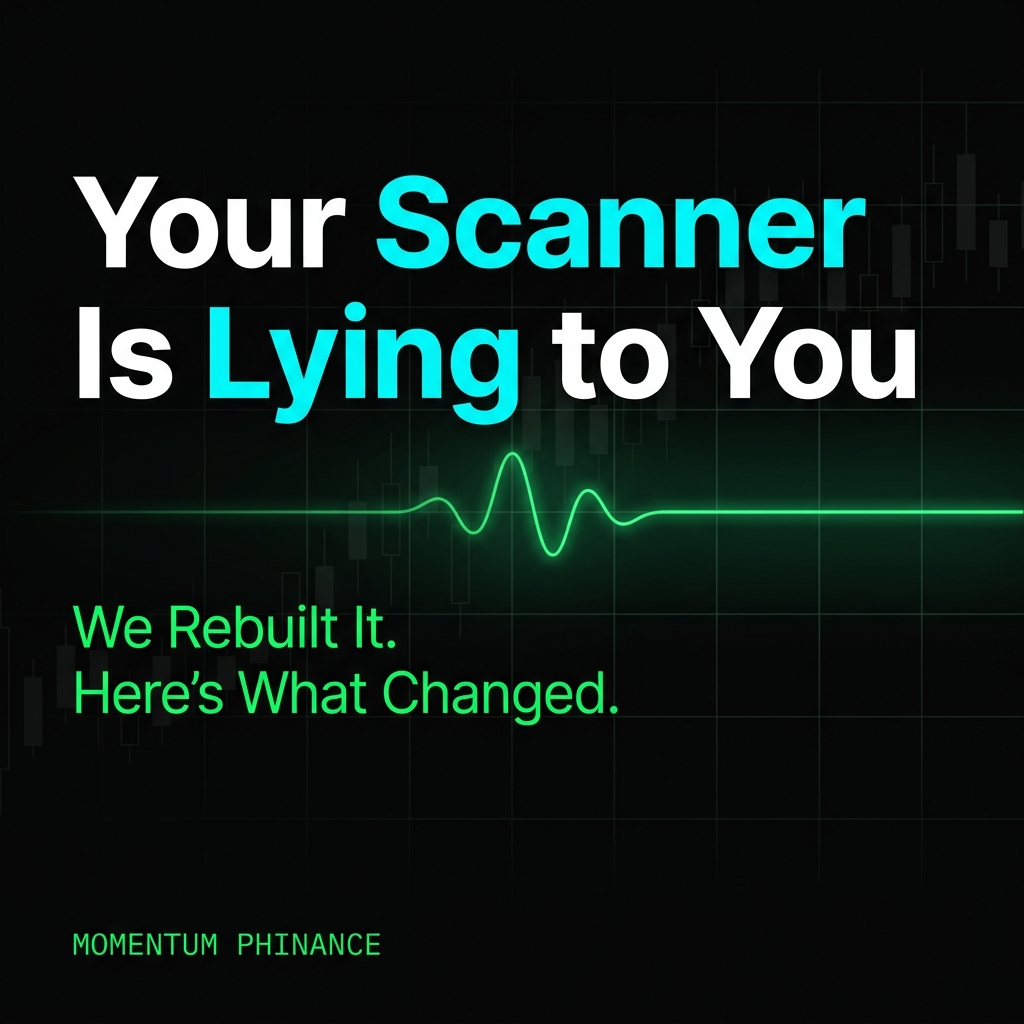
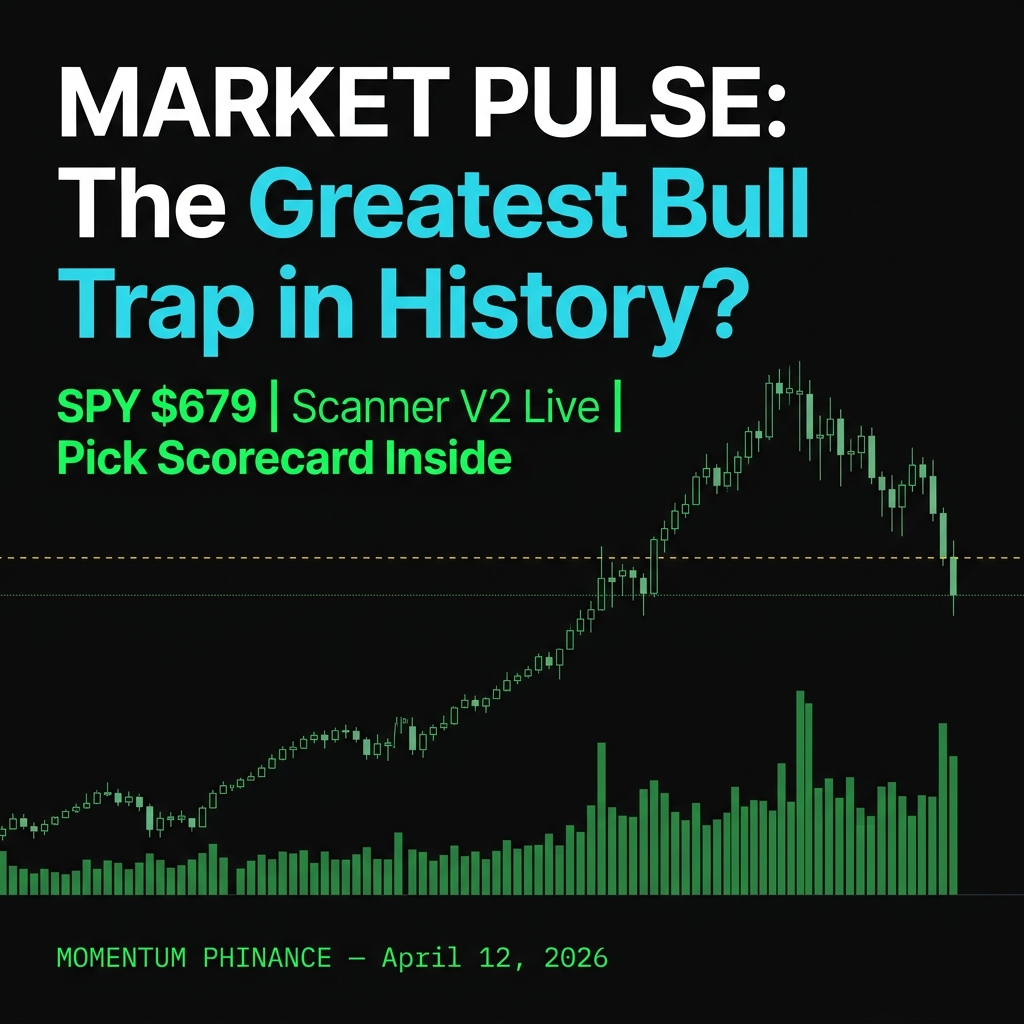
📝 Market Pulse: Bull trap thesis, Q1 pick scorecard, scanner V2 + IV smoother

diff --git a/docs/articles/letf-scanner-v2/README.md b/docs/articles/letf-scanner-v2/README.md
@@ -1,117 +1,137 @@
-# Your Scanner Is Lying to You
+# Market Pulse: The Greatest Bull Trap in History?
 
 *April 12, 2026*
 
-![Your Scanner Is Lying to You](hero_banner.png)
+![Market Pulse: The Greatest Bull Trap in History?](hero_banner.png)
 
 ---
 
-**Most stock screeners are just vibes with a filter on top.**
+**SPY is at $679 and I'm not sleeping well.**
 
-RSI below 30? Buy. ADX above 25? "Strong trend." That's the level of analysis you get from a $0 Finviz screen. And honestly, it's the level of analysis I was running until about a week ago when Sam looked at the output and said, "Michael, this is basically a coin flip with extra steps."
+Pull up the weekly chart. Look at it. Really look at it. Now pull up the monthly. That's not a rally. That's a rocket ship with no landing gear. SPY has gone nearly vertical on the monthly timeframe, the kind of parabolic move you see right before someone gets hurt.
 
-She wasn't wrong.
+The last two times the monthly chart looked like this were December 2021 and January 2018. Both preceded drawdowns of 15% or more. I'm not saying we're there. I'm saying the setup is familiar, and pretending it isn't is the kind of denial that costs people money.
 
-Here's the problem: static thresholds are dumb. An ADX of 24 sitting still is completely different from an ADX of 24 that was 16 five days ago. One is a nothing burger. The other is a coiled spring about to snap your face off. And every scanner I've seen, including the one I built, treated them exactly the same.
-
-So we burned it down and rebuilt it.
+Here's what tipped me off. I sent Sam a screenshot of three SPY charts this morning: weekly, monthly, and the TradingView overview. She said: "Michael, that's either the greatest bull trap in history or the start of another leg up. Either way, you should probably write about it." So here we are.
 
 ---
 
-## The Market Right Now
+## What Happened This Week
 
-Before I show you what changed, let me show you what the scanner found today.
+The tariff saga continued doing what it does best: making everything feel unstable while the indices somehow grind higher. The market spent Monday through Wednesday pretending the macro environment doesn't exist, ripped to new highs, then started leaking on Thursday and Friday.
 
-![Market Regime, April 12, 2026](market_regime.png)
+That $679 SPY close looks strong until you notice the volume. Volume has been declining on the rally. Price going up on decreasing volume is a textbook divergence. It means fewer and fewer participants are driving the move higher. The people still buying are getting more aggressive. The people who already own shares are quietly not adding. That's the quiet before the quiet before the storm.
 
-SPY is sitting at **$679**. The ADX on SPY is **37.5**, which is a strong trend day. The machine says it's a trade day. Good. Let's see what it found.
+**SPY ADX: 37.5.** Strong trend. The scanner says it's a trade day. But look underneath the hood.
 
-Out of 71 leveraged ETF underlyings scanned: **zero A-grade setups. Four B-grades. Nine C-grades. And 58 D-grades.**
+![The Bull Trap Thesis](bull_trap.png)
 
-Read that again. **82% of the universe scored a D.** That's not a market where you swing at everything. That's a market where you wait for the pitch. The scanner's job isn't to find you trades. It's to keep you out of bad ones. When 82% of stocks don't qualify, the scanner is doing its damn job.
+I ran the scanner across 71 leveraged ETF underlyings today. **82% scored a D.** Four out of 71 earned a B. Zero A-grades. When the index is screaming higher but 82% of individual stocks can't produce a setup, who is actually pushing this thing up? A handful of mega-caps dragging the index while everything else treads water.
+
+That's not a healthy rally. That's a narrow rally wearing a healthy rally's clothes.
 
 ---
 
-## What We Changed (And Why It Matters)
+## The Pick Scorecard: Receipts
 
-The old scanner used hard cutoffs. RSI below 35? Check. ADX above 20? Check. Volume above average? Check. Three green lights and you're in. 
+I talk a lot. Sam talks even more. But neither of us means anything without the receipts. Here are the picks from Q1, graded against what actually happened.
 
-The problem is obvious when you say it out loud: a stock with RSI 34.9, ADX 19.8, and volume at 0.99x its average scores **zero** on all three. Move each number by 0.2 and suddenly it's a "buy." That's not analysis. That's noise.
+![Ghost Alpha Pick Scorecard](pick_scorecard.png)
 
-**V2 uses a 17-point scoring system.** Every signal contributes proportionally. No more binary gates. The more criteria you hit, and the harder you hit them, the higher your score. Think of it like a credit score for momentum setups.
+**AVGO: Called at $330 on March 6. Currently $371. Up 12.4%.** ✓
+
+This is the one I'm proudest of. When we published the AVGO deep dive, the EMA stack was *fully bearish*. Every short-term average was below every long-term average. RSI was flat at 54. Most scanners would have ignored it or flagged it as "neutral." But the fundamentals were screaming: 188% earnings growth. Forward P/E of 19.2 on a company growing revenue 16.4%. All 44 analysts had it as a Strong Buy with a median target of $472. The EMA stack was bearish because the stock had just corrected from $414. We caught the bottom.
+
+**TER: Called at $306 on March 3.** The semiconductor equipment monster.
+
+This was a full bullish EMA stack with an ADX of 64. Sixty-four. The highest ADX reading in my entire dossier database at the time. Revenue growth at 44%. This wasn't a speculative play. It was a freight train. The ADX told you the trend was so strong that stepping in front of it was financial suicide.
+
+**HOOD: Called at $76 on March 4. Currently $69. Down 9.0%.** 🔍
+
+Not going to lie, this one stings a little. But the scanner currently has HOOD at C-grade with an ADX of 30 and a coiling ATR squeeze ratio of 0.79. It's compressing. The thesis isn't dead, it's digesting. Sometimes the best trades require patience. Sometimes they require admitting you were early. I'm watching it, not mourning it.
+
+**DDD (The Wheel): Stock down $43. Premium collected: $51. Net: +$8.32.** ✓
+
+This is where the strategy proves itself. The stock is underwater. On paper, you're losing. But the options premium from selling covered calls has more than covered the drawdown. The wheel turns. Time plus premium plus patience equals green. This is what your subscription dollars fund in the Tastytrade account.
+
+**BITF: Cut at $1.91. Loss: $109.** ✗
+
+BITF was a relapse. I saw the momentum breaking and I stayed in the bar too long. In recovery, they tell you the relapse teaches you more than the streak ever could. BITF taught me that when your thesis breaks, you walk out the door. You don't finish the drink. The $109 loss was tuition.
+
+**RR (The Wheel): Stock down $59. Premium collected: $93. Net: +$33.66.** ✓
+
+Same story as DDD. Stock is underwater. Premiums are printing. Net positive. The wheel doesn't care about your feelings. It cares about time decay. And time decay is undefeated.
+
+---
+
+## The Scanner Got an Upgrade (And It Found Things)
+
+OK, the R&D section. This is the part where I tell you what we built this week and why it matters for your trading.
+
+**V1 of the LETF scanner was basically a coin flip with extra steps.** Static thresholds. RSI below 35? Green light. ADX above 20? Green light. Three green lights and you're "in." The problem is obvious: a stock with RSI 34.9 and ADX 19.8 scores zero on everything, but an RSI of 35.1 and ADX 20.1 is suddenly a "buy." That's not analysis. That's noise with a GUI.
+
+**V2 uses a 17-point scoring system.** Every signal contributes proportionally. No binary gates. The more conditions you hit, and the harder you hit them, the higher your score.
 
 ![V2 Scoring Engine](scoring_system.png)
 
-Six categories. Seventeen possible points. Here's why each one matters:
+The two biggest additions:
 
-**ADX Strength (0-4 pts):** This is the trend filter. ADX above 15 says "something is happening." Above 30 says "get on or get out of the way." Four tiers instead of a single cutoff.
+**ADX Delta (0-3 pts).** This is the game changer. We stopped looking at ADX as a snapshot and started looking at it as a velocity. A 5-bar lookback compares today's ADX to where it was a week ago. An ADX of 24 that was 16 last week has a delta of +8. That's a trend *accelerating*. The rubber band is pulled back. The old scanner would have ignored an ADX of 24. The new scanner sees the kinetic energy building and rewards it.
 
-**ADX Delta (0-3 pts):** This is the new one. The one that changes everything. We look at the ADX five bars ago versus today. If the delta is +7 or higher, the trend is accelerating rapidly. The rubber band is getting pulled back. This is where consolidation breakouts live. An ADX of 24 that was 16 last week is a completely different animal than an ADX of 24 that's been 24 for a month.
+**ATR Squeeze (0-3 pts).** Volatility compression. When the short-term ATR falls below 80% of the long-term ATR, the stock is coiling. Below 70%, it's a tight spring. When the ratio crosses back above 0.75 from below, that's the "fire" signal. Springs snap.
 
-**ATR Squeeze (0-3 pts):** Volatility compression. When the short-term ATR drops below 80% of the long-term ATR, volatility is coiling up. Below 70%, it's getting tight. And when it crosses back above 0.75 from below, that's the "fire" signal. Springs snap.
+Here's what the new scanner found today:
 
-**Relative Volume (0-3 pts):** Volume doesn't lie. When a stock is trading at 2x its 20-day average, somebody knows something. Or they think they do. Either way, the move is being funded.
+![LETF Scanner V2 Dashboard](scanner_dashboard.png)
 
-**RSI Oversold (0-3 pts):** Classic, but graduated. RSI 39 gets 1 point. RSI 29 gets 3. The deeper the oversold reading, the more likely the bounce. But it's never enough on its own.
+**NOW (ServiceNow):** Dropped 7.6% on Friday. RSI cratered to 22.4. Volume surged to 3.24x its 20-day average. The ADX delta is +7.5, meaning trend strength nearly doubled in five sessions. This is what the old scanner would have missed: the acceleration. It's not just oversold. It's oversold *and* gaining momentum. Score: 13/17, Grade B.
 
-**Below VWAP (0-1 pt):** Simple. Is the stock below its volume-weighted average price? If yes, you're buying the dip, not chasing the rip. One point, but it matters.
+**AXON:** The highest ADX delta in the batch at +9.6. Trend strengthening faster than anything else in the universe. RSI at 25.7. Every scoring category lit up. Score: 13/17, Grade B.
 
-**A = 14+. B = 10+. C = 6+. D = below 6.**
+**SNOW (Snowflake):** Destroyed on Friday, down 8.4% with volume at nearly 4x normal. RSI at 21.2. That's panic selling on real volume. The ADX delta of +5.8 says a new trend direction is picking up steam, regardless of whether you agree with it. Score: 12/17, Grade B.
 
----
-
-## Today's Grade-B Picks
-
-Four stocks earned a B today. Here they are, with the actual data from the scanner.
-
-![LETF Scanner V2 Top Picks](top_picks.png)
-
-**NOW → NOWL (Score: 13/17)**
-ServiceNow dropped 7.6% today. RSI cratered to 22.4. Volume surged to 3.24x normal. The ADX delta is +7.5, meaning trend strength nearly doubled in five sessions. This is what the old scanner would have missed: the acceleration. It's not just oversold. It's oversold *and* accelerating into a new move. That's the whole thesis.
-
-**AXON → AXUP (Score: 13/17)**
-The highest ADX delta in the batch at +9.6. Axon's trend is strengthening faster than anything else in the universe today. RSI at 25.7, volume at 1.67x. Every single scoring category lit up. This is the kind of setup that makes the 17-point system worth building.
-
-**SNOW → SNOU (Score: 12/17)**
-Snowflake got destroyed, down 8.4% with volume at almost 4x normal. RSI at 21.2. That's panic selling on real volume. The ADX delta of +5.8 says the trend is picking up steam. Whether it bounces Monday or grinds lower, the conditions are aligned for a leveraged play.
-
-**SMR → SMUP (Score: 10/17)**
-This one is interesting because it scores differently from the others. The ADX is the highest in the group at 43.9 (strong sustained trend), and it has the lowest ATR squeeze ratio at 0.61. That means volatility is compressed to 61% of its normal range. The spring is coiled. When it snaps, the 2x leverage amplifies the move. This is the "quiet before the breakout" setup.
+**SMR:** The interesting one. ADX is the highest in the group at 43.9 (sustained strong trend), and the ATR squeeze ratio is 0.61 (tightly coiled). Volatility has compressed to 61% of its normal range. This is the "quiet before the breakout" setup that gets amplified by 2x leverage. Score: 10/17, Grade B.
 
 ---
 
-## The Options Upgrade: Stop Trusting Raw IV
+## The Options Pipeline Got Smarter Too
 
-Here's the other thing we fixed this week, and this one is for the options nerds.
+One more R&D update, then I'll let you go.
 
-If you've ever pulled an implied volatility number off your broker and thought "that looks weird," you're right. It is weird. Raw ATM IV is a single data point from a single strike. It's noisy, it's affected by wide bid-ask spreads, and on illiquid names it's basically useless.
+We rebuilt how the options scanner handles implied volatility. If you've ever pulled a raw IV number off your broker and thought "that seems off," it is. Raw ATM IV is one data point from one strike. It's noisy, it's affected by wide bid-ask spreads, and on illiquid names it's basically random.
 
 ![IV Smoother: Spline vs Raw](iv_smoother.png)
 
-We built a cubic spline smoother. Instead of grabbing one IV number from the ATM strike, we fit a curve through the entire options chain. Each strike gets weighted by the square root of its volume times open interest. Liquid, near-the-money strikes dominate the curve. Illiquid deep OTM garbage gets faded out.
+We built a cubic spline smoother. Instead of one IV number from one strike, we fit a curve through the entire options chain, weighted by the square root of volume times open interest. Liquid, near-the-money strikes dominate. Illiquid deep OTM garbage fades out.
 
-The result: a smoothed ATM IV that actually reflects where the market is pricing risk, not where one market maker left a wide quote on a $0.05 option nobody trades.
+This feeds directly into the gamma pin screener, where the OI sandwich analysis depends on accurate put-vs-call IV to detect institutional hedging. Noisy IV was making the skew signals unreliable. Now they're not.
 
-We also extract the IV skew from the fitted curve. Put IV centroid minus call IV centroid. When puts are priced significantly above calls (skew > 5 vol points), that's institutional hedging. When calls are priced above puts (skew < -3), that's bullish flow. The smoother turned our gamma pin screener from "interesting" to "useful."
-
----
-
-## Here's the Truth
-
-I built these tools because I couldn't find them anywhere else. Not for free, not for $200/month, not anywhere. Every scanner I tried used the same static thresholds that treat all ADX 24s as equal and all RSI 30s as identical. They're not.
-
-The V2 scoring system isn't perfect. Zero A-grade setups today tells me either the model is conservative or the market is genuinely not offering clean entries. Probably both. But I'd rather have a scanner that says "nothing looks great" than one that lights up 20 "buy" signals that all crater by Wednesday.
-
-**When 82% of the universe flunks the test, the four that pass deserve your attention.**
+This is the kind of upgrade nobody sees but everybody benefits from. The plumbing matters.
 
 ---
 
-*Not subscribed yet? This is what you get: the actual tools, the actual data, and the actual thought process behind every trade. No hypotheticals. No "past performance." Live scanners running on live data with a real human showing you the receipts.*
+## So What Do You Do With All This?
+
+Here's how I'm thinking about it.
+
+SPY at $679 on declining volume with a parabolic monthly chart and 82% of individual stocks failing the scanner. That's not a "back up the truck" setup. That's a "be selective and keep your stops tight" setup.
+
+The four B-grade picks are interesting because they're all showing the same pattern: strong trend acceleration (ADX delta positive) combined with oversold RSI and elevated volume. That's institutional money repositioning, not retail panic. When the big money is getting aggressive on specific names while the broad market thins out, those specific names are where the setups live.
+
+The Q1 pick scorecard is mostly green. AVGO (+12.4%) proved that the dossier engine catches bottoms when the fundamentals diverge from the technicals. The wheel strategy on DDD and RR is printing premium. BITF was a $109 lesson in cutting losses. HOOD is coiling.
+
+Am I calling a top? No. I'm saying the data looks the way it looks. Volume is thinning. Breadth is narrowing. The scanner can't find A-grade setups anywhere. Either the model is too conservative or the market is genuinely not offering clean entries. I'd rather have a scanner that says "nothing looks great" on 82% of the universe than one that lights up 20 buy signals that crater by Wednesday.
+
+**When most of the universe flunks, the ones that pass deserve your attention.**
+
+---
+
+*This is what the subscription gets you. The actual tools, the actual data, the actual pick follow-ups. Not hypotheticals. Not paper trades. AVGO at $330, DDD wheeling premium, BITF eaten in public. Every receipt on the table.*
 
 *[Subscribe to Momentum Phinance](https://mphinance.substack.com)*
 
 ---
 
-*God, grant me the serenity to accept the trades I cannot change, the courage to cut the ones I should, and the wisdom to tell the damn difference.*
+*God, grant me the serenity to accept the trades I cannot change, the courage to cut the ones I should, and the wisdom to see the volume divergence before it costs me money.*
 
 **- Michael Hanko**